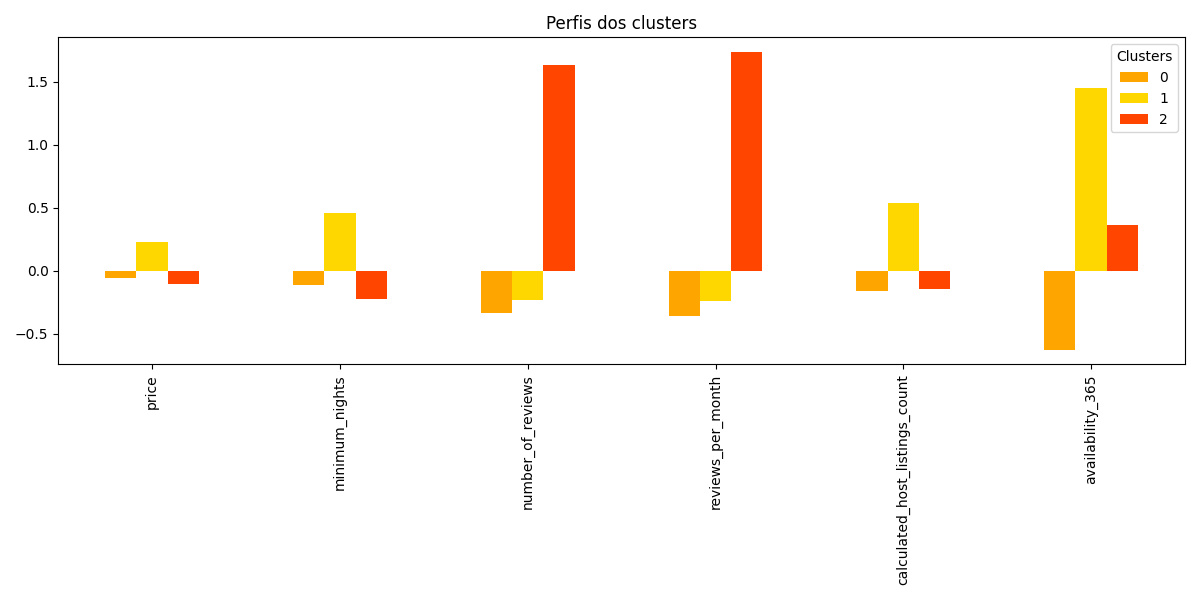
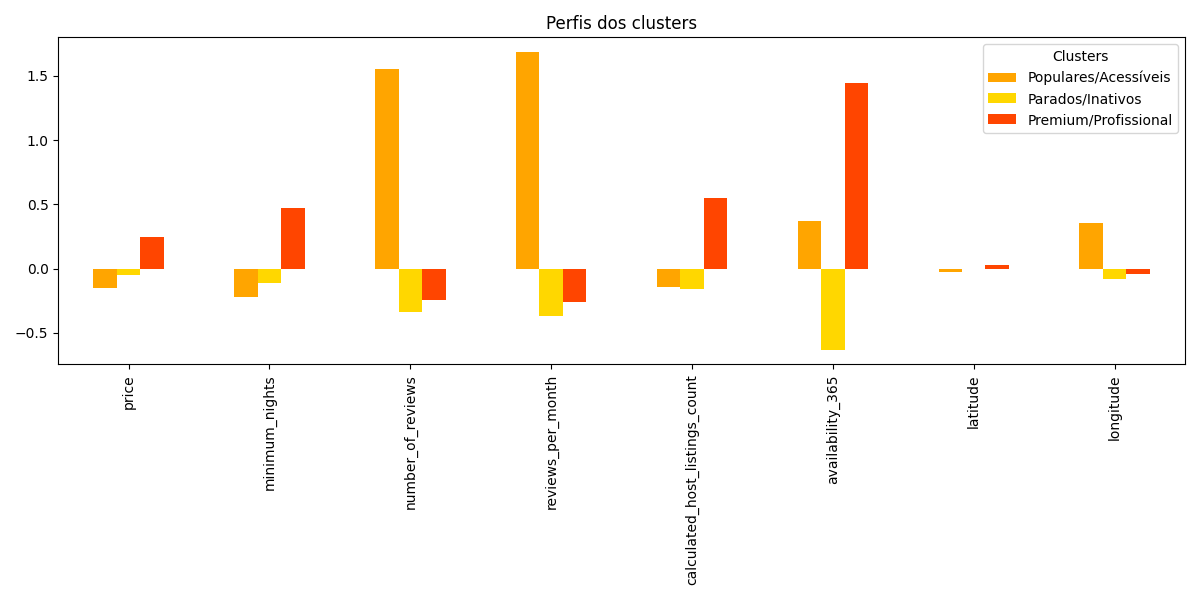
analise de clusters

diff --git a/analysis/analysis.py b/analysis/analysis.py
@@ -9,6 +9,7 @@ import plotly.express as px
 
 from sklearn.cluster import KMeans
 from sklearn.preprocessing import StandardScaler
+from sklearn.metrics import silhouette_score
 # %%
 
 # carregando o df 
@@ -252,23 +253,51 @@ print(correlacao)
 
 # perfis de airbnbs (clusters)
 
-df_numerico = df_sem_outliers.drop(columns=[
-    'host_id',
-    'latitude',
-    'longitude'
-])
+features = ['price', 'minimum_nights', 'number_of_reviews',
+            'reviews_per_month', 'calculated_host_listings_count',
+            'availability_365', 'latitude', 'longitude']
 
-# %%
-
-df_numerico = df_numerico.select_dtypes(include=['int64', 'float64'])
+df_cluster = df_sem_outliers[features]
 
 # %%
 
 scaler = StandardScaler()
-scaled_data = scaler.fit_transform(df_numerico)
+scaled_data = scaler.fit_transform(df_cluster)
+
 # %%
 
-kmeans = KMeans(n_clusters=3, random_state=42) # Exemplo com K=3
+# descobrindo o melhor número de clusters
+
+# Método do Cotovelo
+
+inercia = []
+
+K = range(1, 10)
+
+for k in K:
+    kmeans = KMeans(n_clusters=k, random_state=42)
+    kmeans.fit(scaled_data)
+    inercia.append(kmeans.inertia_)
+
+plt.plot(K, inercia, marker='o')
+plt.xlabel('Número de clusters')
+plt.ylabel('Inércia')
+plt.title('Método do Cotovelo')
+plt.show()
+
+# %%
+
+# Método Silhueta
+
+for k in range(2, 10):
+    kmeans = KMeans(n_clusters=k, random_state=42)
+    labels = kmeans.fit_predict(scaled_data)
+    score = silhouette_score(scaled_data, labels)
+    print(f"k={k} → silhouette score: {score:.4f}")
+
+# %%
+
+kmeans = KMeans(n_clusters=3, random_state=42) 
 clusters = kmeans.fit_predict(scaled_data)
 # %%
 
@@ -277,14 +306,25 @@ df_sem_outliers['cluster'] = clusters
 # %%
 centroides = pd.DataFrame(
     kmeans.cluster_centers_,
-    columns=df_numerico.columns
+    columns=df_cluster.columns
 )
 
 centroides
 # %%
 
+# renomear clusters com base nos centroides
+
+df_sem_outliers['cluster'] = df_sem_outliers['cluster'].map({
+    0: 'Populares/Acessíveis',
+    1: 'Parados/Inativos',
+    2: 'Premium/Profissional'
+})
+
 df_sem_outliers.head()
+
 # %%
+
+centroides.index = ['Populares/Acessíveis', 'Parados/Inativos', 'Premium/Profissional']
 
 cores = ['#FFA500', '#FFD700', '#FF4500']
 
@@ -295,6 +335,29 @@ plt.legend(title='Clusters')
 plt.tight_layout()
 
 plt.savefig("../img/centroides_clusters.png")
+
+plt.show()
+
+# %%
+
+contagem_imoveis = df_sem_outliers['cluster'].value_counts()
+print(contagem_imoveis)
+
+# %%
+
+sns.scatterplot(
+    data=df_sem_outliers,
+    x='longitude',
+    y='latitude',
+    hue='cluster',
+    style='cluster',
+    palette='viridis',
+    s=40
+)
+
+plt.title('Clusters de Airbnbs em NYC')
+plt.xlabel('Longitude')
+plt.ylabel('Latitude')
 
 plt.show()
 # %%
